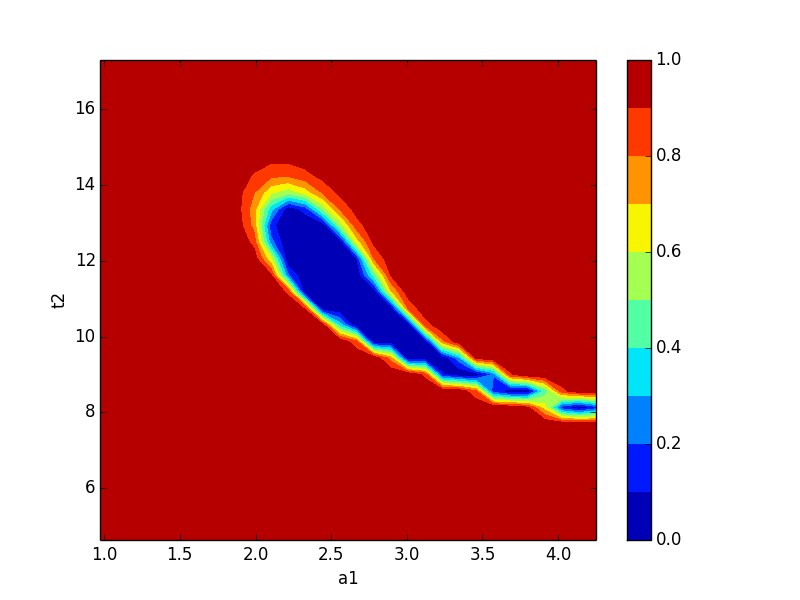
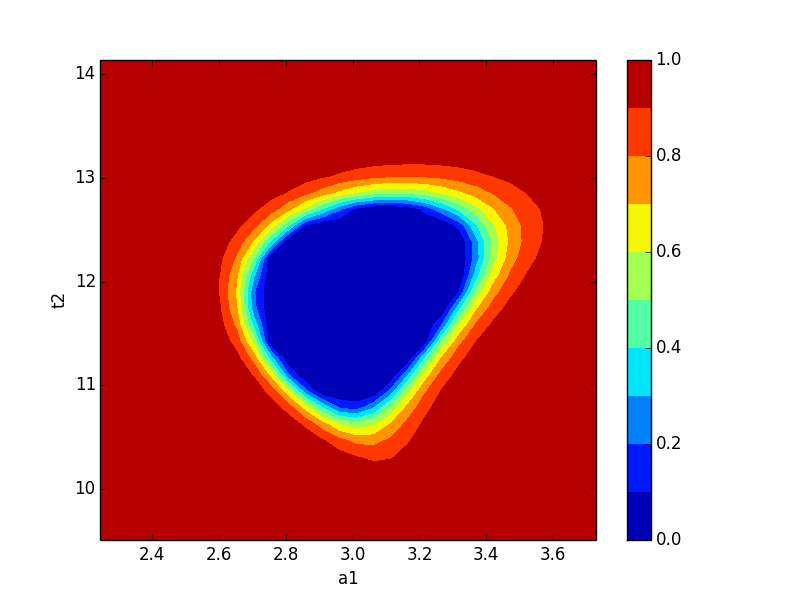
updated confidence interval docs

diff --git a/examples/doc_confidence2.py b/examples/doc_confidence2.py
@@ -1,0 +1,61 @@
+import lmfit
+import numpy as np
+import matplotlib
+matplotlib.use('WXAgg')
+
+import matplotlib.pyplot as plt
+
+
+x = np.linspace(1, 10, 250)
+np.random.seed(0)
+y = 3.0*np.exp(-x/2) -5.0*np.exp(-(x-0.1)/10.) + 0.1*np.random.randn(len(x))
+
+p = lmfit.Parameters()
+p.add_many(('a1', 4.), ('a2', 4.), ('t1', 3.), ('t2', 3.))
+
+def residual(p):
+   v = p.valuesdict()
+   return v['a1']*np.exp(-x/v['t1']) + v['a2']*np.exp(-(x-0.1)/v['t2'])-y
+
+# first solve with Nelder-Mead
+mi = lmfit.minimize(residual, p, method='Nelder')
+
+mi = lmfit.minimize(residual, p)
+
+lmfit.printfuncs.report_fit(mi.params, min_correl=0.5)
+
+ci, trace = lmfit.conf_interval(mi, sigmas=[0.68,0.95], trace=True, verbose=False)
+lmfit.printfuncs.report_ci(ci)
+
+plot_type = 3
+if plot_type == 0:
+    plt.plot(x, y)
+    plt.plot(x, residual(p)+y )
+
+elif plot_type == 1:
+    cx, cy, grid = lmfit.conf_interval2d(mi,'a2','t2',30,30)
+    plt.contourf(cx, cy, grid, np.linspace(0,1,11))
+    plt.xlabel('a2')
+    plt.colorbar()
+    plt.ylabel('t2')
+
+elif plot_type == 2:
+    cx, cy, grid = lmfit.conf_interval2d(mi,'a1','t2',30,30)
+    plt.contourf(cx, cy, grid, np.linspace(0,1,11))
+    plt.xlabel('a1')
+    plt.colorbar()
+    plt.ylabel('t2')
+
+    
+elif plot_type == 3:
+    cx1, cy1, prob = trace['a1']['a1'], trace['a1']['t2'],trace['a1']['prob']
+    cx2, cy2, prob2 = trace['t2']['t2'], trace['t2']['a1'],trace['t2']['prob']
+    plt.scatter(cx1, cy1, c=prob, s=30)
+    plt.scatter(cx2, cy2, c=prob2, s=30)
+    plt.gca().set_xlim((2.5, 3.5))
+    plt.gca().set_ylim((11, 13))
+    plt.xlabel('a1')
+    plt.ylabel('t2')
+
+if plot_type > 0:
+    plt.show()

diff --git a/examples/doc_confidence1.py b/examples/doc_confidence1.py
@@ -1,0 +1,24 @@
+import lmfit
+import numpy as np
+
+x = np.linspace(0.3,10,100)
+np.random.seed(0)
+
+y = 1/(0.1*x)+2+0.1*np.random.randn(x.size)
+
+p = lmfit.Parameters()
+p.add_many(('a', 0.1), ('b', 1))
+
+def residual(p):
+   a = p['a'].value
+   b = p['b'].value
+
+   return 1/(a*x)+b-y
+
+mi = lmfit.minimize(residual, p)
+lmfit.printfuncs.report_fit(mi.params)
+
+ci = lmfit.conf_interval(mi)
+lmfit.printfuncs.report_ci(ci)
+
+

diff --git a/doc/confidence.rst b/doc/confidence.rst
@@ -45,7 +45,7 @@ First we create an example problem::
     >>> x = np.linspace(0.3,10,100)
     >>> y = 1/(0.1*x)+2+0.1*np.random.randn(x.size)
     >>> p = lmfit.Parameters()
-    >>> p.add_many(('a',0.1),('b',1))
+    >>> p.add_many(('a', 0.1), ('b', 1))
     >>> def residual(p):
     ...    a = p['a'].value
     ...    b = p['b'].value
@@ -58,14 +58,12 @@ starting point::
 
 
     >>> mi = lmfit.minimize(residual, p)
-    >>> mi.leastsq()
     >>> lmfit.printfuncs.report_fit(mi.params)
-    [[Variables]]
-         a:     0.09978076 +/- 0.0002112132 (0.21%) initial =  0.09978076
-         b:     1.992907 +/- 0.0132743 (0.67%) initial =  1.992907
+    [Variables]]
+        a:   0.09943895 +/- 0.000193 (0.19%) (init= 0.1)
+        b:   1.98476945 +/- 0.012226 (0.62%) (init= 1)
     [[Correlations]] (unreported correlations are <  0.100)
-        C(a, b)                      =  0.601
-
+        C(a, b)                      =  0.601 
 
 Now it is just a simple function call to calculate the confidence
 intervals::
@@ -73,8 +71,8 @@ intervals::
     >>> ci = lmfit.conf_interval(mi)
     >>> lmfit.printfuncs.report_ci(ci)
          99.70%    95.00%    67.40%     0.00%    67.40%    95.00%    99.70%
-    a   0.09960   0.09981   0.10000   0.10019   0.10039   0.10058   0.10079
-    b   1.97035   1.98326   1.99544   2.00008   2.01936   2.03154   2.04445
+    a   0.09886   0.09905   0.09925   0.09944   0.09963   0.09982   0.10003
+    b   1.94751   1.96049   1.97274   1.97741   1.99680   2.00905   2.02203
 
 This shows the best-fit values for the parameters in the `0.00%` column,
 and parameter values that are at the varying confidence levels given by
@@ -90,24 +88,38 @@ An advanced example
 -------------------
 
 Now we look at a problem where calculating the error from approximated
-covariance can lead to misleading results::
+covariance can lead to misleading result -- two decaying exponentials.  In
+fact such a problem is particularly hard for the Levenberg-Marquardt
+method, so we fitst estimate the results using the slower but robust
+Nelder-Mead  method, and *then* use Levenberg-Marquardt to estimate the
+uncertainties and correlations::
 
-    >>> y = 3*np.exp(-x/2.)-5*np.exp(-x/10.)+0.2*np.random.randn(x.size)
+
+    >>> x = np.linspace(1, 10, 250)
+    >>> np.random.seed(0)
+    >>> y = 3.0*np.exp(-x/2) -5.0*np.exp(-(x-0.1)/10.) + 0.1*np.random.randn(len(x))
+    >>> 
     >>> p = lmfit.Parameters()
-    >>> p.add_many(('a1', 5), ('a2', -5), ('t1', 2), ('t2', 5))
+    >>> p.add_many(('a1', 4.), ('a2', 4.), ('t1', 3.), ('t2', 3.))
+    >>> 
     >>> def residual(p):
-    ...    a1, a2, t1, t2 = [i.value for i in p.values()]
-    ...    return a1*np.exp(-x/t1)+a2*np.exp(-x/t2)-y
-
+    ...    v = p.valuesdict()
+    ...    return v['a1']*np.exp(-x/v['t1']) + v['a2']*np.exp(-(x-0.1)/v['t2'])-y
+    >>> 
+    >>> # first solve with Nelder-Mead
+    >>> mi = lmfit.minimize(residual, p, method='Nelder')
+    >>> # then solve with Levenberg-Marquardt
     >>> mi = lmfit.minimize(residual, p)
-    >>> mi.leastsq()
-    >>> lmfit.printfuncs.report_fit(mi.params, show_correl=False)
+    >>> 
+    >>> lmfit.printfuncs.report_fit(mi.params, min_correl=0.5)
 
     [[Variables]]
-         a1:     2.611013 +/- 0.3279648 (12.56%) initial =  2.611013
-         a2:    -4.512928 +/- 0.3991997 (8.85%) initial = -4.512928
-         t1:     1.569477 +/- 0.3345078 (21.31%) initial =  1.569477
-         t2:     10.96137 +/- 1.263874 (11.53%) initial =  10.96137
+        a1:   2.98622120 +/- 0.148671 (4.98%) (init= 2.986237)
+        a2:  -4.33526327 +/- 0.115275 (2.66%) (init=-4.335256)
+        t1:   1.30994233 +/- 0.131211 (10.02%) (init= 1.309932)
+        t2:   11.8240350 +/- 0.463164 (3.92%) (init= 11.82408)
+    [[Correlations]] (unreported correlations are <  0.500)
+        C(a2, t2)                    =  0.987 
 
 
 Again we call :func:`conf_interval`, this time with tracing and only for 1-
@@ -115,17 +127,19 @@ and 2 :math:`\sigma`::
 
     >>> ci, trace = lmfit.conf_interval(mi, sigmas=[0.68,0.95], trace=True, verbose=False)
     >>> lmfit.printfuncs.report_ci(ci)
+
           95.00%    68.00%     0.00%    68.00%    95.00%
-    a1   2.11679   2.33696   2.61101   3.06631   4.28694
-    a2  -6.39449  -5.05982  -4.20173  -4.19528  -3.97850
-    t2   8.00414   9.62688  12.17331  12.17886  13.34857
-    t1   1.07009   1.28482   1.37407   1.97509   2.64341
+    a1   2.71850   2.84525   2.98622   3.14874   3.34076
+    a2  -4.63180  -4.46663  -4.35429  -4.22883  -4.14178
+    t2  10.82699  11.33865  11.78219  12.28195  12.71094
+    t1   1.08014   1.18566   1.38044   1.45566   1.62579
+
 
 Comparing these two different estimates, we see that the estimate for `a1`
 is reasonably well approximated from the covariance matrix, but the
-estimates for `a2`, `t1`, and `t2` are very asymmetric and that going from
-1 :math:`\sigma` (68% confidence) to 2 :math:`\sigma` (95% confidence) is
-not very predictable.
+estimates for `a2` and especially for `t1`, and `t2` are very asymmetric
+and that going from 1 :math:`\sigma` (68% confidence) to 2 :math:`\sigma`
+(95% confidence) is not very predictable.
 
 Now let's plot a confidence region::
 
